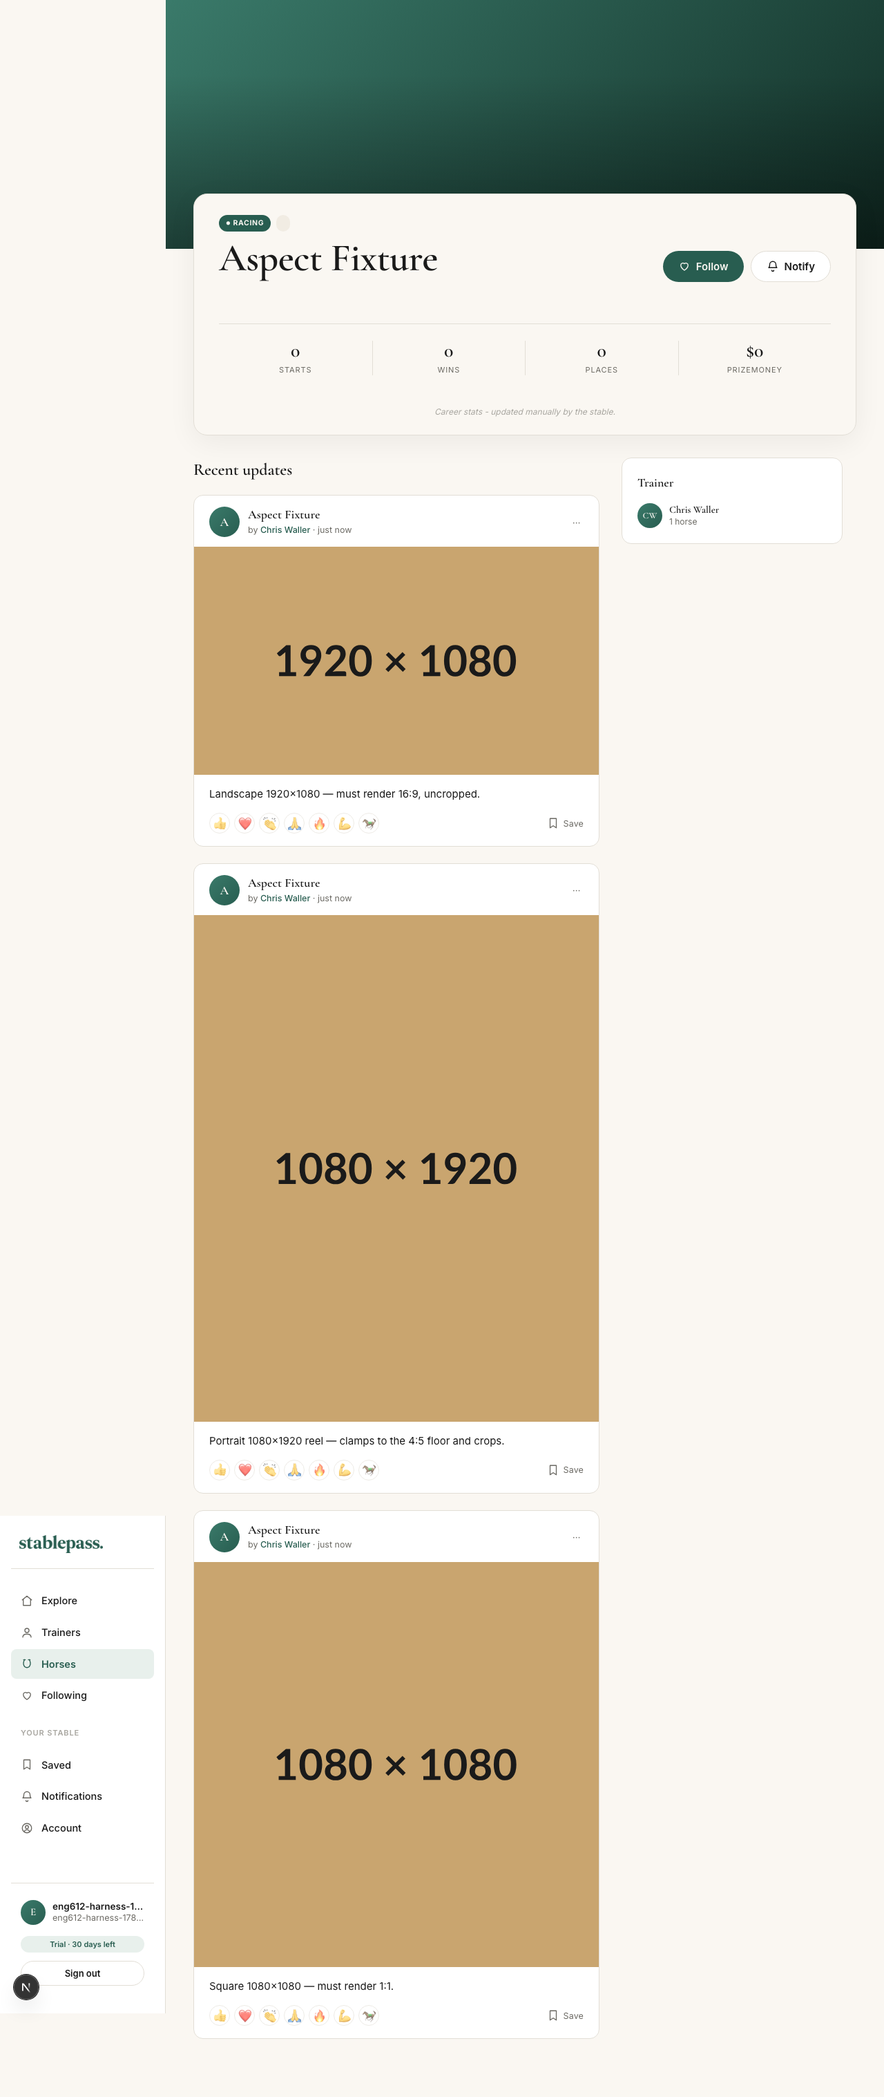
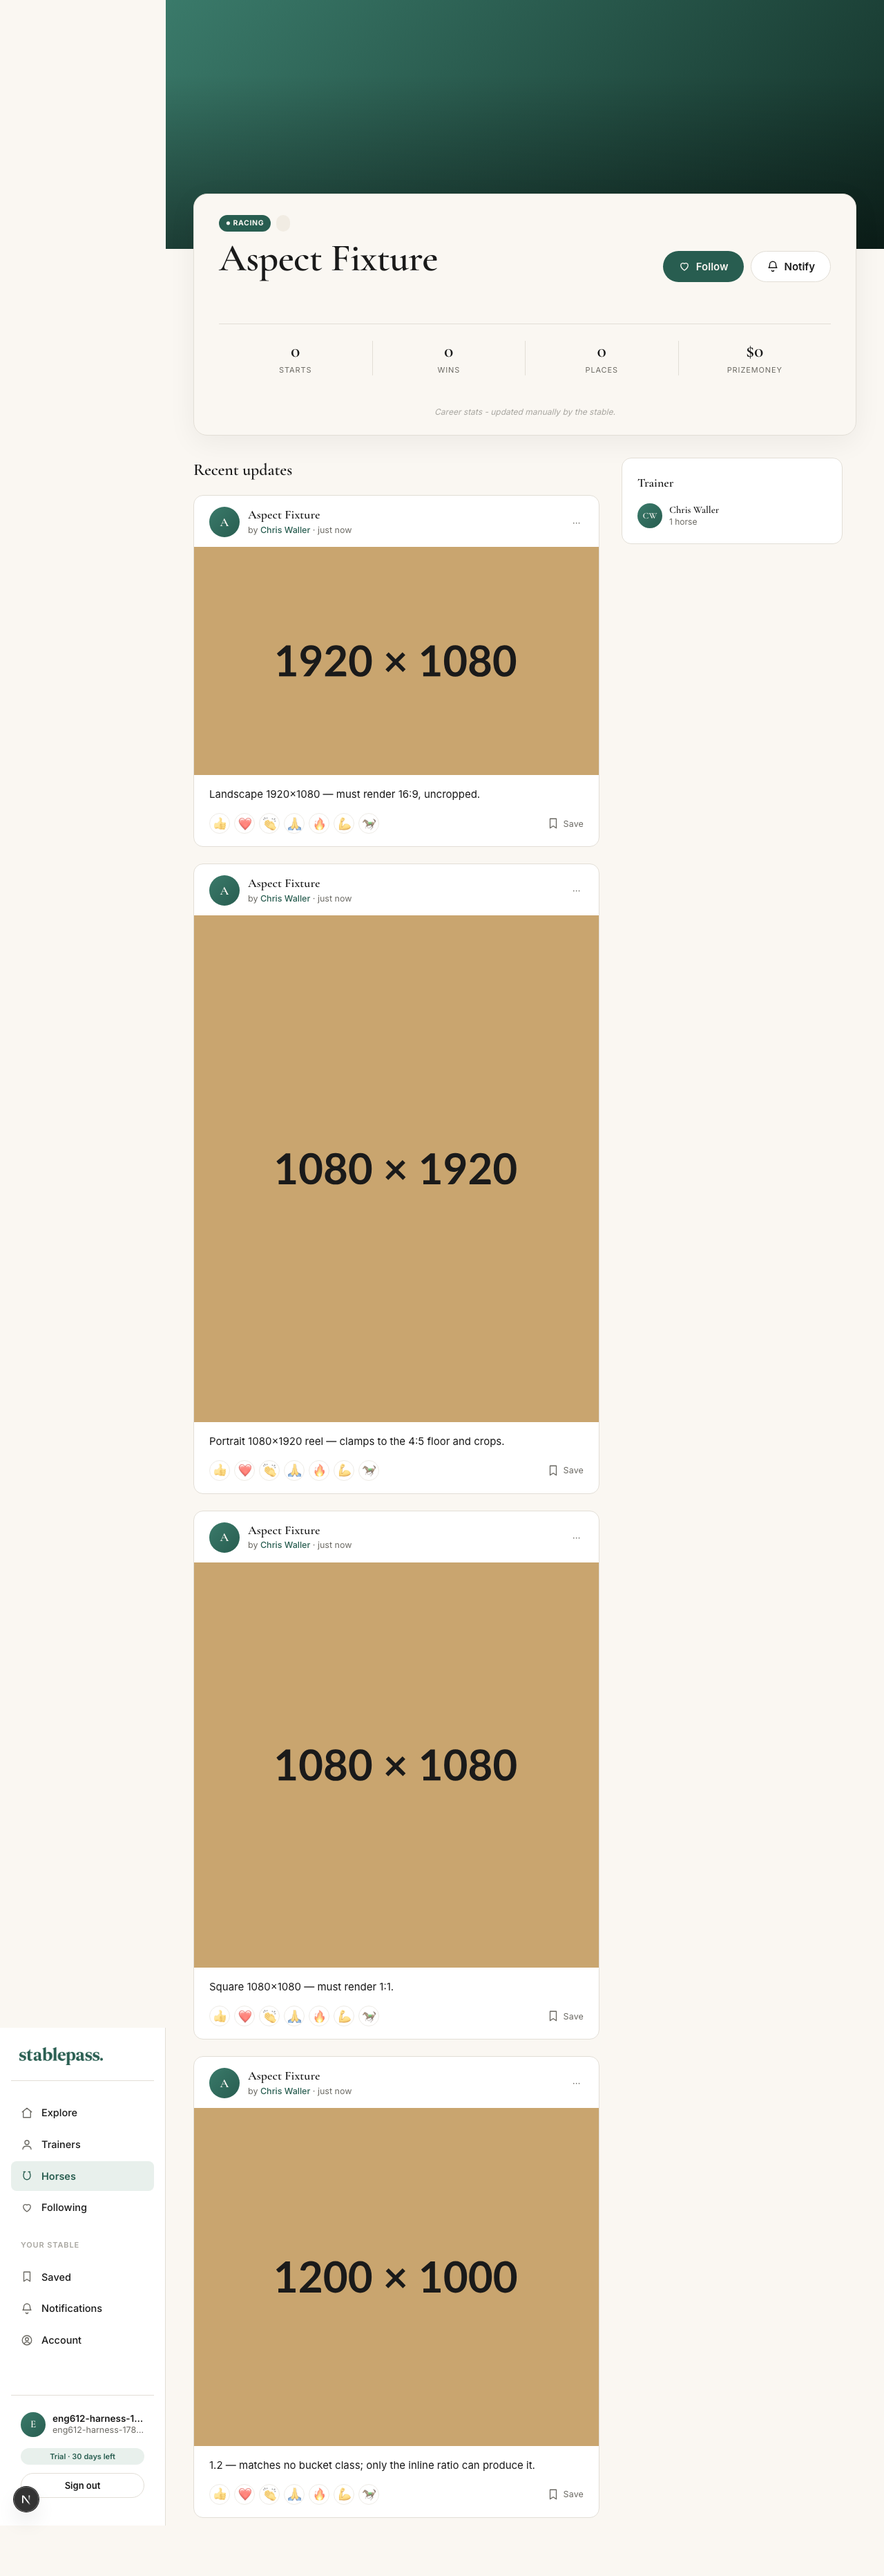
test(eng-612): cover the playing video box and make the e2e discriminate
Fixes the two must-fix findings from the fresh-eyes review. It found no logic
defect, so this commit is entirely test coverage; no behaviour changed.

1. The inline <video> box had zero coverage on any surface. That is the branch
   that matters: a photo never carries an aspect_ratio, so a video is the only
   media type that ever has a real one, and the headline behaviour was being
   exercised only on the poster path. Adds a saved-feed test that drives play(),
   then asserts the box keeps the clamped 0.8 and that the player carries no
   hardcoded aspect-ratio or background of its own.

2. The e2e could not tell the inline clamp from the CSS bucket fallback:
   1.7778, 0.8 and 1 are exactly the three bucket ratios, so all three would
   still have passed off the class alone if the inline style vanished. Adds a
   1.2 fixture, which matches no bucket (it buckets .square = 1/1), so the box
   can only measure 1.2 if the inline value is present and wins. Also pins the
   expected bucket class per row.

3. Extends the e2e to the trainer profile. /api/trainers/:id/feed is the other
   route naming its columns explicitly, and sb is untyped, so a dropped
   aspect_ratio there is invisible to tsc.

4. Hardens the ground test to scan every .post-media-web rule rather than the
   base rule alone, since a descendant is how brand green would realistically
   creep back. Scoped to `background` on purpose: .media-play legitimately uses
[…]

diff --git a/e2e/screenshots.spec.ts b/e2e/screenshots.spec.ts
@@ -597,6 +597,24 @@ test("ENG-612 post media takes the asset's real aspect ratio on a neutral ground
       watermarked: false,
       published_at: at(2000),
     },
+    // The DISCRIMINATING fixture. 1.7778, 0.8 and 1 are exactly the three
+    // bucket-class ratios in globals.css, so those three assertions would still
+    // pass off the class alone if the inline `aspect-ratio` disappeared
+    // entirely. 1.2 matches NO bucket: it buckets as `.square` (1/1) for the
+    // fallback, so the box can only measure 1.2 if the inline value is present
+    // AND wins over the class. This is the assertion that actually proves the
+    // ticket.
+    {
+      horse_id: horse.id,
+      type: "photo",
+      status: "published",
+      body: "1.2 — matches no bucket class; only the inline ratio can produce it.",
+      media_url: "https://placehold.co/1200x1000/C9A56F/1A1A1A",
+      aspect_ratio: 1.2,
+      source_trainer_id: trainer.id,
+      watermarked: false,
+      published_at: at(3000),
+    },
   ]);
   if (postError) throw postError;
 
@@ -616,7 +634,7 @@ test("ENG-612 post media takes the asset's real aspect ratio on a neutral ground
 
     await page.goto(`/horses/${horse.id}`);
     const boxes = page.locator(".post-media-web");
-    await expect(boxes).toHaveCount(3);
+    await expect(boxes).toHaveCount(4);
 
     // Let the poster images settle so the evidence shots show the CROP, not a
     // half-loaded frame. The geometry assertions below do not depend on this.
@@ -634,13 +652,15 @@ test("ENG-612 post media takes the asset's real aspect ratio on a neutral ground
         // instead, which is still valid evidence for the neutral-ground half.
       });
 
-    const shots: Array<{ label: string; expected: number }> = [
-      { label: "landscape", expected: 1.7778 },
-      { label: "portrait", expected: 0.8 }, // 0.5625 clamped up to ASPECT_MIN
-      { label: "square", expected: 1 },
+    const shots: Array<{ label: string; expected: number; bucket: string }> = [
+      { label: "landscape", expected: 1.7778, bucket: "post-media-web" },
+      { label: "portrait", expected: 0.8, bucket: "post-media-web tall" }, // 0.5625 clamped up to ASPECT_MIN
+      { label: "square", expected: 1, bucket: "post-media-web square" },
+      // Bucket says 1/1, inline says 1.2 — measuring 1.2 proves the inline wins.
+      { label: "inline-beats-bucket", expected: 1.2, bucket: "post-media-web square" },
     ];
 
-    for (const [i, { label, expected }] of shots.entries()) {
+    for (const [i, { label, expected, bucket }] of shots.entries()) {
       const box = boxes.nth(i);
       await expect(box).toBeVisible();
 
@@ -652,6 +672,10 @@ test("ENG-612 post media takes the asset's real aspect ratio on a neutral ground
       expect(rect!.height).toBeGreaterThan(0);
       expect(rect!.width / rect!.height).toBeCloseTo(expected, 1);
 
+      // The bucket class is only the fallback; the inline value is what wins.
+      // Pinning both is what makes the `inline-beats-bucket` row meaningful.
+      await expect(box).toHaveClass(bucket);
+
       // The unpainted ground is neutral ink (#1A1A1A), never brand green
       // (#1F4A40 = rgb(31, 74, 64)) — the "green screen" the client reported.
       const ground = await box.evaluate((el) => getComputedStyle(el).backgroundColor);
@@ -662,6 +686,27 @@ test("ENG-612 post media takes the asset's real aspect ratio on a neutral ground
     }
 
     await page.screenshot({ path: ".rx/review/eng-612-horse-profile-all.png", fullPage: true });
+
+    // BOTH profile feeds, per the acceptance criteria. This is not ceremony:
+    // /api/trainers/:id/feed is the OTHER route that names its post columns
+    // explicitly, and `sb` is untyped, so a dropped `aspect_ratio` there is
+    // invisible to `tsc` and would silently flatten every ratio to 1.6. The
+    // 1.2 fixture is the one that proves the column survived the round trip,
+    // since no bucket class can produce that number.
+    await page.goto(`/trainers/${trainer.id}`);
+    const trainerBoxes = page.locator(".post-media-web");
+    await expect(trainerBoxes).toHaveCount(4);
+
+    const trainerRect = await trainerBoxes.nth(3).boundingBox();
+    expect(trainerRect, "trainer profile 1.2 box has no layout").not.toBeNull();
+    expect(trainerRect!.width / trainerRect!.height).toBeCloseTo(1.2, 1);
+
+    const trainerGround = await trainerBoxes
+      .nth(3)
+      .evaluate((el) => getComputedStyle(el).backgroundColor);
+    expect(trainerGround).toBe("rgb(26, 26, 26)");
+
+    await page.screenshot({ path: ".rx/review/eng-612-trainer-profile-all.png", fullPage: true });
   } finally {
     // Best-effort cleanup, matching the W6/W7 convention (content rows are
     // left behind; only the throwaway user is removed).

diff --git a/test/saved-feed.test.tsx b/test/saved-feed.test.tsx
@@ -1,4 +1,4 @@
-import { describe, it, expect, vi, beforeEach } from "vitest";
+import { describe, it, expect, vi, beforeEach, afterEach } from "vitest";
 import { render, screen, waitFor } from "@testing-library/react";
 import userEvent from "@testing-library/user-event";
 import { SavedFeed } from "@/app/(member)/saved/saved-feed";
@@ -193,4 +193,69 @@ describe("SavedFeed", () => {
       expect(box!.className).toBe("post-media-web");
     });
   });
+
+  // ENG-612 — the PLAYING <video> box, not just the poster box.
+  //
+  // This is the branch that actually matters. Photos never carry an
+  // `aspect_ratio` (a Storage asset has no Mux ratio), so a VIDEO is the only
+  // media type that ever has a real one — yet the inline player on all five
+  // surfaces was covered by nothing. `tsc` catches a wrong field name here, but
+  // not a dropped `style`, a reverted spread, or a `mediaBoxProps(null)`.
+  describe("the playing <video> box (ENG-612)", () => {
+    const PLAYBACK_URL = "https://stream.mux.test/signed.m3u8?token=stub";
+
+    const ratioOf = (el: HTMLElement): number => {
+      const [w, h = "1"] = el.style.aspectRatio.split("/").map((part) => part.trim());
+      return Number(w) / Number(h);
+    };
+
+    beforeEach(() => {
+      // A 9:16 reel: the ratio must clamp to the 0.8 floor, and must still be
+      // 0.8 AFTER the poster is swapped for the player.
+      bookmarkData = [
+        { ...BOOKMARKS[0], post: { ...BOOKMARKS[0].post, type: "video", aspect_ratio: 0.5625 } },
+      ];
+      vi.stubGlobal(
+        "fetch",
+        vi.fn(async () => ({
+          status: 200,
+          json: async () => ({ data: { playbackUrl: PLAYBACK_URL } }),
+        })),
+      );
+    });
+
+    afterEach(() => {
+      vi.unstubAllGlobals();
+    });
+
+    it("keeps the clamped ratio after play, and the player carries no hardcoded 16/9 or #000", async () => {
+      const { container } = render(<SavedFeed viewerId={VIEWER_ID} everSubscribed={false} />);
+      await screen.findByText("Nature Strip");
+
+      // Assert the poster box first, so a failure after play is unambiguous.
+      expect(ratioOf(container.querySelector<HTMLElement>(".post-media-web")!)).toBeCloseTo(0.8, 4);
+
+      await userEvent.click(screen.getByRole("button", { name: "Play video" }));
+
+      const video = await waitFor(() => {
+        const found = container.querySelector<HTMLVideoElement>(".post-media-web video");
+        expect(found).toBeTruthy();
+        return found!;
+      });
+
+      // Guardrail: the src is the minted signed URL, never a raw Mux asset.
+      expect(video.getAttribute("src")).toBe(PLAYBACK_URL);
+
+      // The box wrapping the player keeps the SAME clamped geometry as the poster.
+      const box = video.closest<HTMLElement>(".post-media-web")!;
+      expect(ratioOf(box)).toBeCloseTo(0.8, 4);
+      expect(box.className).toBe("post-media-web tall");
+
+      // Acceptance: the hardcoded player styles are gone. Geometry and ground
+      // both come from the box now, so the element has neither of its own.
+      expect(video.style.aspectRatio).toBe("");
+      expect(video.style.background).toBe("");
+    });
+  });
+
 });

diff --git a/test/post-media-ground.test.ts b/test/post-media-ground.test.ts
@@ -30,6 +30,7 @@ describe("post media ground (ENG-612 rows 1 and 2)", () => {
   // chrome the app drew, because the box is edge to edge.
   it("leaves no --brand-green-dark behind post media", () => {
     const rule = GLOBALS.match(BASE_RULE)?.[0];
+    expect(rule).toBeDefined();
     expect(rule).not.toContain("--brand-green-dark");
   });
 
@@ -40,6 +41,23 @@ describe("post media ground (ENG-612 rows 1 and 2)", () => {
     expect(rule).toContain("aspect-ratio: 16/9");
     expect(GLOBALS).toMatch(/\.post-media-web\.tall\s*\{\s*aspect-ratio:\s*4\/5;\s*\}/);
     expect(GLOBALS).toMatch(/\.post-media-web\.square\s*\{\s*aspect-ratio:\s*1\/1;\s*\}/);
+  });
+
+  // The base-rule checks above would not notice brand green creeping back in
+  // through a DESCENDANT rule, which is how this regresses in practice. Scans
+  // every `.post-media-web*` rule instead.
+  //
+  // Deliberately scoped to `background`: `.post-media-web .media-play` legitimately
+  // uses `--brand-green-dark` as its `color` (the play glyph on a white pill),
+  // which is foreground chrome, not the ground behind unpainted media.
+  it("leaves no brand-green BACKGROUND on any post-media rule, not just the base", () => {
+    const rules = GLOBALS.match(/\.post-media-web[^{]*\{[^}]*\}/g) ?? [];
+    expect(rules.length).toBeGreaterThan(0);
+
+    const offenders = rules.filter((rule) =>
+      /background(-color)?:[^;}]*var\(--brand-green/.test(rule),
+    );
+    expect(offenders).toEqual([]);
   });
 
   // Guardrail: marketing.css is a separate, frozen design system diffed
